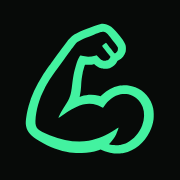
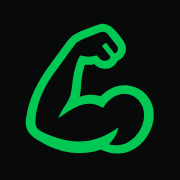
Add files via upload

Changed region(s): [[0.1389, 0.1111, 0.8611, 0.8611]]

diff --git a/index.html b/index.html
@@ -1,45 +1,6 @@
 <!DOCTYPE html>
-<html lang="en">
-<head>
-<meta charset="utf-8">
-<meta name="viewport" content="width=device-width, initial-scale=1, maximum-scale=1, viewport-fit=cover">
-<title>Gym</title>
-<!-- Home Screen app: full screen, dark status bar, our icon and name -->
-<meta name="apple-mobile-web-app-capable" content="yes">
-<meta name="mobile-web-app-capable" content="yes">
-<meta name="apple-mobile-web-app-status-bar-style" content="black-translucent">
-<meta name="apple-mobile-web-app-title" content="Gym">
-<meta name="theme-color" content="#070a08">
-<link rel="apple-touch-icon" href="apple-touch-icon.png">
-<link rel="icon" type="image/png" sizes="32x32" href="favicon-32.png">
-<link rel="manifest" href="manifest.webmanifest">
-<style>
-  html, body { margin: 0; height: 100%; background: #070a08; overflow: hidden; overscroll-behavior: none; }
-  /* the app sits between the clock and the home bar; the strips around it stay the app's dark colour */
-  #app { position: fixed; left: 0; top: env(safe-area-inset-top); width: 100%;
-         height: calc(100% - env(safe-area-inset-top) - env(safe-area-inset-bottom));
-         border: 0; display: block; background: #070a08; opacity: 0; transition: opacity .3s; }
-  #app.on { opacity: 1; }
-  #msg { position: fixed; inset: 0; display: grid; place-items: center; padding: 24px; color: #91a69a;
-         font: 15px/1.5 system-ui, sans-serif; text-align: center; }
-  .spin { width: 28px; height: 28px; border-radius: 50%; border: 3px solid #1d2a23; border-top-color: #43f2a0; animation: s .8s linear infinite; }
-  @keyframes s { to { transform: rotate(360deg); } }
-</style>
-</head>
-<body>
-<div id="msg"><div class="spin"></div></div>
-<iframe id="app" title="Gym diary"></iframe>
-<script>
-  // ▼ Paste your web app link between the quotes (Apps Script → Deploy → Manage deployments → Web app URL, ends in /exec)
-  const APP_URL = 'PASTE_YOUR_EXEC_LINK_HERE';
-
-  const app = document.getElementById('app'), msg = document.getElementById('msg');
-  if (!/^https:\/\/script\.google\.com\/.+\/exec/.test(APP_URL)) {
-    msg.textContent = 'Paste your Apps Script /exec link into index.html (the APP_URL line).';
-  } else {
-    app.onload = () => setTimeout(() => { app.classList.add('on'); msg.style.display = 'none'; }, 350);
-    app.src = APP_URL;
-  }
-</script>
-</body>
-</html>
+<html lang="en"><head><meta charset="utf-8"><meta name="viewport" content="width=device-width, initial-scale=1">
+<title>T2</title><meta name="apple-mobile-web-app-capable" content="yes"><meta name="apple-mobile-web-app-title" content="T2">
+<link rel="apple-touch-icon" href="apple-touch-icon.png"></head>
+<body style="margin:0;min-height:100vh;display:grid;place-items:center;background:#070a08;color:#f2fbf5;font:18px/1.5 system-ui,sans-serif;text-align:center;padding:24px">
+<div><img src="apple-touch-icon.png" width="120" height="120" style="border-radius:27px"><p><b>Test icon T2</b><br>dark tile, deeper green</p><p style="color:#91a69a">Share → Add to Home Screen → Add<br><a href="../" style="color:#08e280">← all test icons</a></p></div></body></html>
